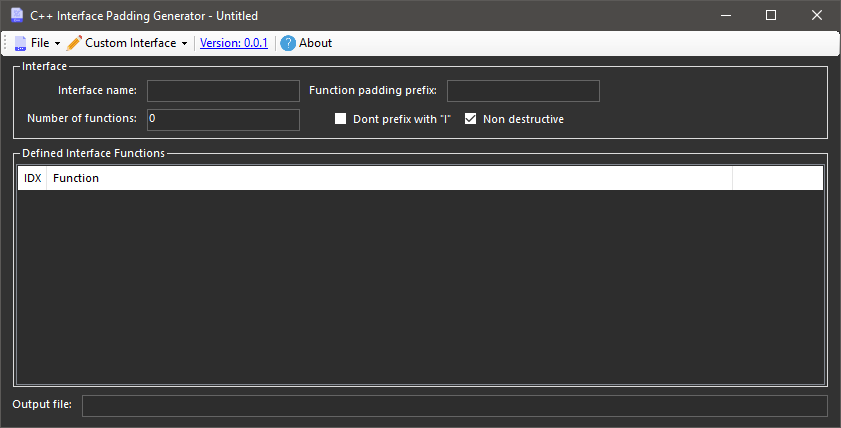
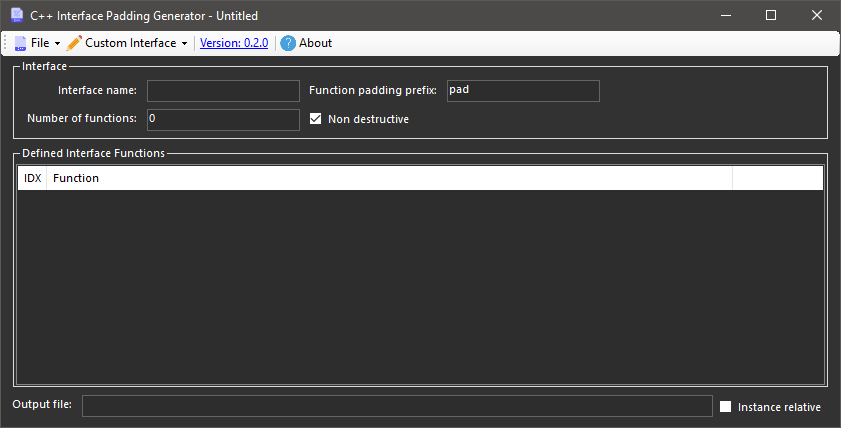
update checks, 0.2.0 pre-release, updated ss

diff --git a/InterfacePaddingGenerator/Forms/FMain.cs b/InterfacePaddingGenerator/Forms/FMain.cs
@@ -4,6 +4,7 @@ using System;
 using System.Diagnostics;
 using System.IO;
 using System.Linq;
+using System.Threading;
 using System.Windows.Forms;
 using IPG.Extensions;
 
@@ -89,6 +90,8 @@ namespace IPG.Forms
         {
             #if DISABLE_UPDATE_CHECK
                 lblVer.IsLink = false;
+            #else
+                Program.Update = new Class.AppUpdate();
             #endif
 
             #if !DEBUG
@@ -175,9 +178,36 @@ namespace IPG.Forms
         private void lblVer_Click(object sender, EventArgs e)
         {
             #if !DISABLE_UPDATE_CHECK
-            
+            {
+
+                if (Program.UpdateThread != null && Program.UpdateThread.IsAlive)
+                {
+                    MessageBox.Show("An update check is alread running!", "Update", MessageBoxButtons.OK, MessageBoxIcon.Error);
+                    return;
+                }
+
+                Program.UpdateThread = new Thread(new ThreadStart(() =>
+                {
+                    if (!Program.Update.Get())
+                        return;
+
+                    if (Program.Update.IsNewer())
+                    {
+                        if (MessageBox.Show($"An update is available!\n\nVersion: {Program.Update.vMajor}.{Program.Update.vMinor}.{Program.Update.vPatch}\nDescription: {Program.Update.description}\n\nWould you like to open the download link? ({Program.Update.dlLink})", "Update", MessageBoxButtons.YesNo, MessageBoxIcon.Information) == DialogResult.Yes)
+                            Process.Start(Program.Update.dlLink);
+                    }
+                    else
+                    {
+                        MessageBox.Show("No updates available!", "Update", MessageBoxButtons.OK, MessageBoxIcon.Information);
+                    }
+
+                    Program.UpdateThread = null;
+                }));
+
+                Program.UpdateThread.Start();
+            }
             #else
-            MessageBox.Show("Update checks has been removed from this build.", Program.DefaultTitle);
+                MessageBox.Show("Update checks has been removed from this build.", Program.DefaultTitle);
             #endif
         }
 

diff --git a/InterfacePaddingGenerator/Class/AppUpdate.cs b/InterfacePaddingGenerator/Class/AppUpdate.cs
@@ -1,0 +1,53 @@
+using Newtonsoft.Json;
+using System;
+using System.Collections.Generic;
+using System.Linq;
+using System.Net;
+using System.Text;
+using System.Threading.Tasks;
+using System.Windows.Forms;
+
+namespace IPG.Class
+{
+    public class AppUpdate
+    {
+        public int    vMajor      = 0,
+                      vMinor      = 0,
+                      vPatch      = 0;
+                                  
+        public string dlLink      = null,
+                      description = null;
+
+        public bool Get()
+        {
+            try
+            {
+                using (WebClient _wc = new WebClient())
+                {
+                    AppUpdate au = JsonConvert.DeserializeObject<Class.AppUpdate>(_wc.DownloadString("https://raw.githubusercontent.com/FerrisSandCanyon/cppinterfacepaddinggenerator/master/updates.json"));
+                    this.vMajor = au.vMajor;
+                    this.vMinor = au.vMinor;
+                    this.vPatch = au.vPatch;
+                    this.dlLink = au.dlLink;
+                    this.description = au.description;
+                }
+                return true;
+            }
+            catch (Exception ex)
+            {
+                MessageBox.Show(ex.Message, "Failed to check for update!", MessageBoxButtons.OK, MessageBoxIcon.Error);
+            }
+
+            return false;
+        }
+
+        public bool IsNewer()
+        {
+            if (this.vMajor > Program.Version[0] || this.vMinor > Program.Version[1] || this.vPatch > Program.Version[2])
+                return true;
+
+            return false;
+        }
+
+    }
+}

diff --git a/InterfacePaddingGenerator/Program.cs b/InterfacePaddingGenerator/Program.cs
@@ -1,6 +1,7 @@
 using System;
 using System.IO;
 using System.Linq;
+using System.Threading;
 using System.Windows.Forms;
 
 namespace IPG
@@ -10,7 +11,7 @@ namespace IPG
         /// <summary>
         /// version in numeric
         /// </summary>
-        public static readonly int[] Version = { 0, 1, 0 };
+        public static readonly int[] Version = { 0, 2, 0 };
 
         /// <summary>
         /// Version in string
@@ -41,6 +42,16 @@ namespace IPG
         /// Current IPG Instance loaded
         /// </summary>
         public static Class.IPGInstance CurrentInstance = new Class.IPGInstance();
+
+        /// <summary>
+        /// App update instance
+        /// </summary>
+        public static Class.AppUpdate Update = null;
+
+        /// <summary>
+        /// Thread to execute the update check
+        /// </summary>
+        public static Thread UpdateThread = null;
 
         /// <summary>
         /// The main entry point for the application.
